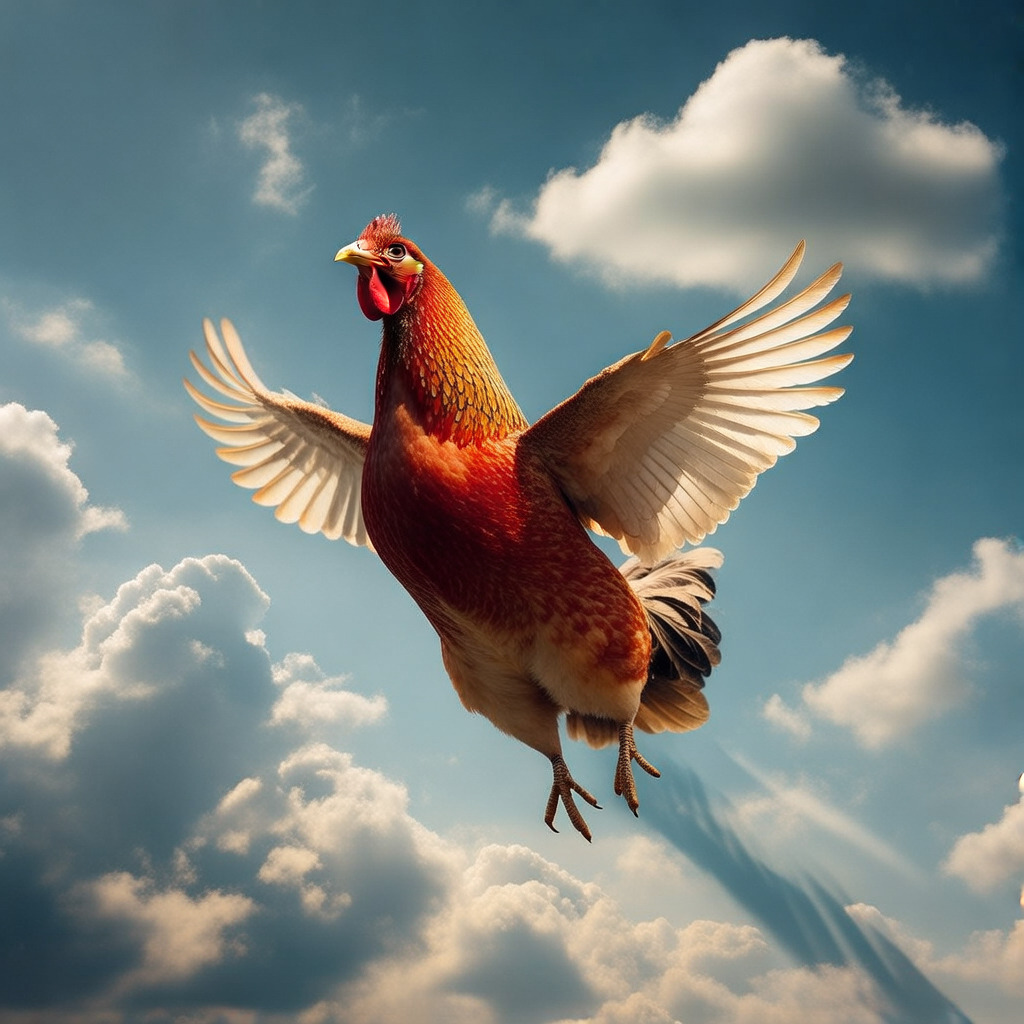
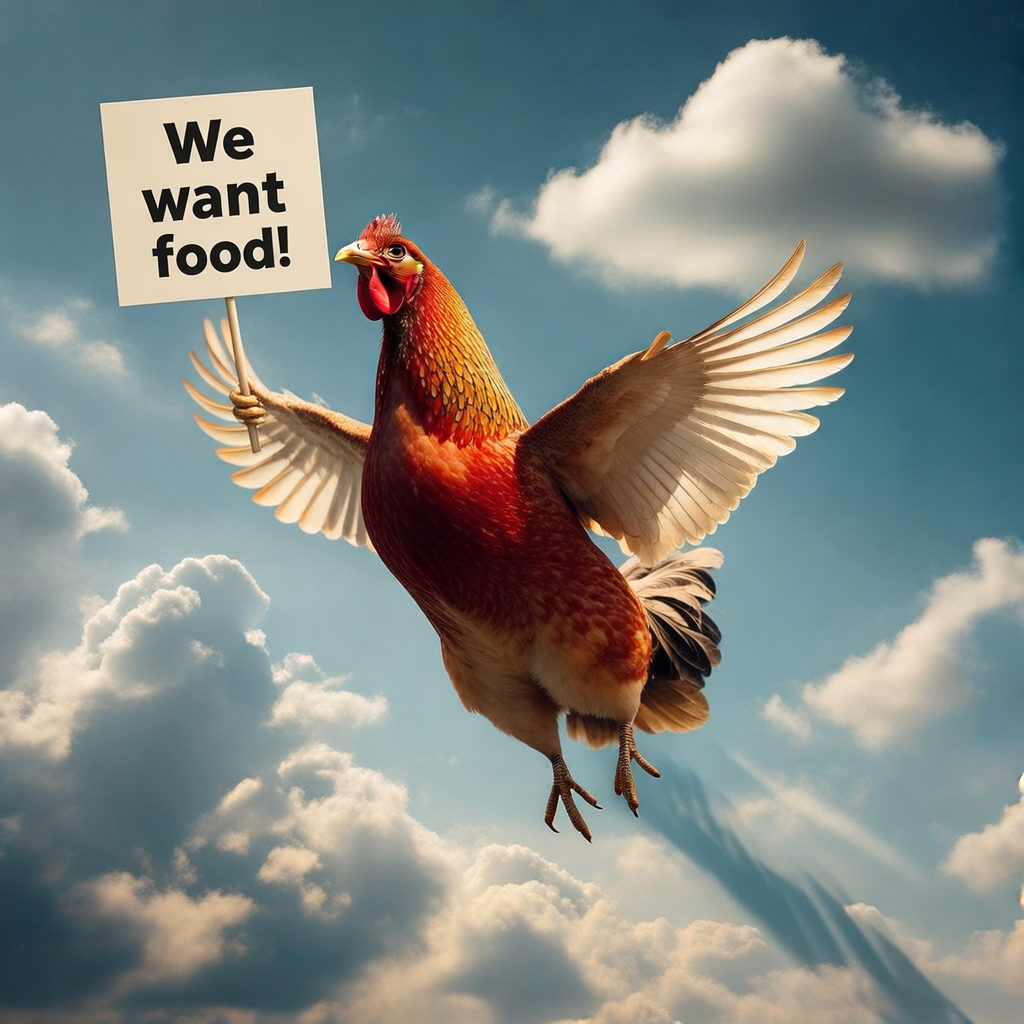
fixes and docs

Changed region(s): [[0.0938, 0.0625, 0.3438, 0.4375], [0.4375, 0.3125, 0.4688, 0.3438], [0.4062, 0.2812, 0.4375, 0.3125]]

diff --git a/react-app/README.md b/react-app/README.md
@@ -1,56 +1,92 @@
-# Welcome to your Expo app 👋
 
-This is an [Expo](https://expo.dev) project created with [`create-expo-app`](https://www.npmjs.com/package/create-expo-app).
+# coop-feeder
 
-## Get started
+A cross-platform (iOS, Android, and web) mobile app built with [Expo](https://expo.dev) and [Expo Router](https://docs.expo.dev/router/introduction), using React Native and TypeScript.
 
-1. Install dependencies
+> **Status:** This is currently the project scaffold generated from the Expo Router starter template. The two screens shipped today (Home and Explore) are example/onboarding screens; the coop-feeder feature work is yet to be built on top of this foundation.
+
+## What the app does
+
+The app boots into a native tabbed interface with two screens:
+
+- **Home** (`src/app/index.tsx`) — a welcome/hero screen with an animated icon and quick "get started" hints (editing entry points, opening dev tools, resetting the project).
+- **Explore** (`src/app/explore.tsx`) — a scrollable screen with collapsible sections explaining the template's features (file-based routing, multi-platform support, images, light/dark mode, animations).
+
+Both screens run natively on iOS and Android and render on the web from the same codebase.
+
+## Key features
+
+- **File-based routing** via Expo Router — screens live in `src/app/` and the tab navigator is configured in `src/app/_layout.tsx`.
+- **Native bottom tabs** using `expo-router/unstable-native-tabs` (`src/components/app-tabs.tsx`), with a web-specific variant.
+- **Light and dark mode** driven by the system color scheme (`useColorScheme`), with a shared theme in `src/constants/theme.ts` and themed primitives (`ThemedText`, `ThemedView`).
+- **Animations** with `react-native-reanimated`, including an animated splash overlay and the collapsible sections.
+- **Typed routes** and the React Compiler enabled (see `app.json` → `experiments`).
+
+## Tech stack
+
+- Expo SDK 57 / React Native 0.86
+- React 19
+- Expo Router (file-based navigation)
+- TypeScript
+- react-native-reanimated, react-native-gesture-handler, react-native-safe-area-context
+
+## Project structure
+
+```
+src/
+  app/                 # Screens + layout (file-based routes)
+    _layout.tsx        # Root layout: theme provider, splash overlay, tabs
+    index.tsx          # Home screen
+    explore.tsx        # Explore screen
+  components/          # Reusable UI (themed text/view, tabs, links, badges)
+    ui/                # Lower-level UI primitives (e.g. collapsible)
+  constants/
+    theme.ts           # Colors, spacing, layout constants
+  hooks/               # useColorScheme / useTheme (with web variants)
+  global.css           # Global styles (web)
+assets/                # Icons, splash, images
+```
+
+Files with `.web.tsx` / `.web.ts` suffixes provide web-specific implementations that Expo picks up automatically.
+
+## Getting started
+
+1. Install dependencies:
 
    ```bash
    npm install
    ```
-
-2. Start the app
+2. Start the development server:
 
    ```bash
    npx expo start
    ```
 
-In the output, you'll find options to open the app in a
+   From the Expo CLI output you can open the app in:
 
-- [development build](https://docs.expo.dev/develop/development-builds/introduction/)
-- [Android emulator](https://docs.expo.dev/workflow/android-studio-emulator/)
-- [iOS simulator](https://docs.expo.dev/workflow/ios-simulator/)
-- [Expo Go](https://expo.dev/go), a limited sandbox for trying out app development with Expo
+   - a [development build](https://docs.expo.dev/develop/development-builds/introduction/)
+   - an [Android emulator](https://docs.expo.dev/workflow/android-studio-emulator/)
+   - an [iOS simulator](https://docs.expo.dev/workflow/ios-simulator/)
+   - [Expo Go](https://expo.dev/go)
 
-You can start developing by editing the files inside the **app** directory. This project uses [file-based routing](https://docs.expo.dev/router/introduction).
+### Platform shortcuts
 
-## Get a fresh project
+```bash
+npm run ios       # open in iOS simulator
+npm run android   # open in Android emulator
+npm run web       # open in the browser
+npm run lint      # run ESLint via expo lint
+```
 
-When you're ready, run:
+## Resetting to a blank app
+
+To move the current example code aside and start with a clean `app` directory:
 
 ```bash
 npm run reset-project
 ```
 
-This command will move the starter code to the **app-example** directory and create a blank **app** directory where you can start developing.
-
-### Other setup steps
-
-- To set up ESLint for linting, run `npx expo lint`, or follow our guide on ["Using ESLint and Prettier"](https://docs.expo.dev/guides/using-eslint/)
-- If you'd like to set up unit testing, follow our guide on ["Unit Testing with Jest"](https://docs.expo.dev/develop/unit-testing/)
-- Learn more about the TypeScript setup in this template in our guide on ["Using TypeScript"](https://docs.expo.dev/guides/typescript/)
-
 ## Learn more
 
-To learn more about developing your project with Expo, look at the following resources:
-
-- [Expo documentation](https://docs.expo.dev/): Learn fundamentals, or go into advanced topics with our [guides](https://docs.expo.dev/guides).
-- [Learn Expo tutorial](https://docs.expo.dev/tutorial/introduction/): Follow a step-by-step tutorial where you'll create a project that runs on Android, iOS, and the web.
-
-## Join the community
-
-Join our community of developers creating universal apps.
-
-- [Expo on GitHub](https://github.com/expo/expo): View our open source platform and contribute.
-- [Discord community](https://chat.expo.dev): Chat with Expo users and ask questions.
+- [Expo documentation](https://docs.expo.dev/)
+- [Expo Router](https://docs.expo.dev/router/introduction)

diff --git a/readme.md b/readme.md
@@ -4,6 +4,10 @@ This project uses an ESP32 microcontroller connected to a load cell via an HX711
 
 Hanging the feeder in the coop helps to discourage pests (although rats can certainly jump up onto the feeder if they're really motivated).
 
+# **IMPORTANT:** 
+
+Do not build the react app on Dropbox. Compiling changes hundreds of files and Dropbox cannot sync and builds often fail. Check out the repo on a local drive for compilation.
+
 ## What It Does
 
 - **Load Cell Monitoring**: Measures the weight of the chicken feeder using an HX711 load cell amplifier
@@ -14,7 +18,7 @@ Hanging the feeder in the coop helps to discourage pests (although rats can cert
 - **SPIFFS Storage**: Stores configuration and logs in flash memory
 - **Double Reset Detection**: Reset WiFi configuration by pressing reset button twice within 10 seconds
 
-## Hardware 
+## Hardware
 
 - ESP32 development board (ESP32-DOIT-DEVKIT-V1) - sometimes a screw terminal board is easiest to use [Amazon Link](https://www.amazon.com/Development-Bluetooth-Microcontroller-ESP-WROOM-32-Breakout/dp/B0C8DBN29X/ref=sr_1_6)
 - [HX711 load cell amplifier](https://www.sparkfun.com/products/13879)
@@ -40,8 +44,9 @@ Hanging the feeder in the coop helps to discourage pests (although rats can cert
 3. Build and upload the filesystem image:
    - PlatformIO → Build Filesystem Image
    - PlatformIO → Upload Filesystem Image
-   I recommend the "Pro" version of WebSerial, but if you are using the free version, modify platformio.ini to match. You will also need to change header file references. 
+     I recommend the "Pro" version of WebSerial, but if you are using the free version, modify platformio.ini to match. You will also need to change header file references.
 4. Build and upload the firmware to your ESP32
+
 - Note that the executable is fairly large; almost 4MB, so you may want to comment out definitions in platformio.ini if you don't need e.g. WebSerial. ElegantOTA is commented out but available if you modify and want to update the code without many trips to the coop :-)
 
 ## First-Time Setup
@@ -57,11 +62,11 @@ Hanging the feeder in the coop helps to discourage pests (although rats can cert
 7. Fill the feeder to maximum capacity
    - Browse to `http://coopfeeder.local/config?full` or
    - Use WebSerial and enter the command `full`
-  Your specific values will be saved in flash on the ESP32
+     Your specific values will be saved in flash on the ESP32
 
   I had a bar load cell from another project. I fixed one end to a piece of flat fiberglass bar (and old sail batten), and clamped it in the coop. The feeder hangs from a split ring on the other end of the bar. The hanging-style load cell is probably easier to install.
 
-  <img src="images/feeder.jpg" alt="load cell" width="50%">
+<img src="images/feeder.jpg" alt="load cell" width="50%">
 
 ## Web Interface
 
@@ -76,9 +81,9 @@ You can configure the device using the WebSerial interface at `http://coopfeeder
 ### WebSerial Commands
 
 - `empty` - Calibrate the load cell with an empty feeder
-   'empty ?' shows current raw value for empty feeder
-   'empty <number>' sets raw value
-- `full` - Calibrate the load cell with a full feeder, 'full ?' and 'full <number>' work same as empty.
+  'empty ?' shows current raw value for empty feeder
+  'empty <number></number>' sets raw value
+- `full` - Calibrate the load cell with a full feeder, 'full ?' and 'full <number></number>' work same as empty.
 - `hostname [name]` - Change the device hostname
 - `timer [seconds]` - Change the web page update interval in seconds
 - `ls` - List files in SPIFFS
@@ -108,10 +113,10 @@ You can configure the device using the WebSerial interface at `http://coopfeeder
 ## Resetting WiFi Configuration
 
 To reset the WiFi configuration and return to the captive portal setup:
+
 1. Press the reset button on the ESP32
 2. Within 10 seconds, press the reset button again
 3. The device will clear WiFi settings and restart in AP mode
-
 
 ## Logs
 
